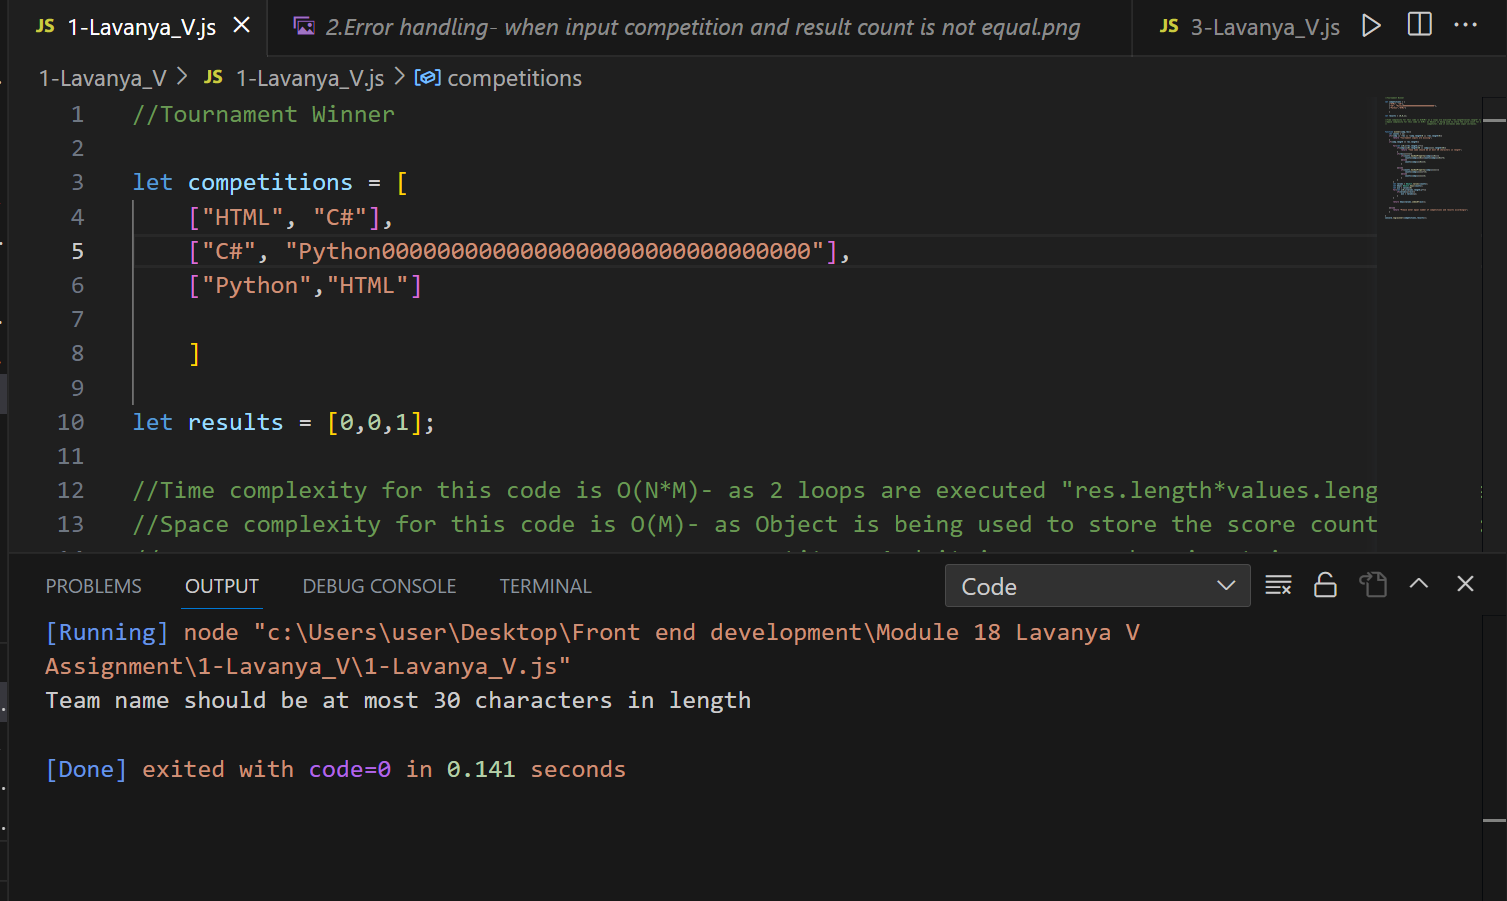
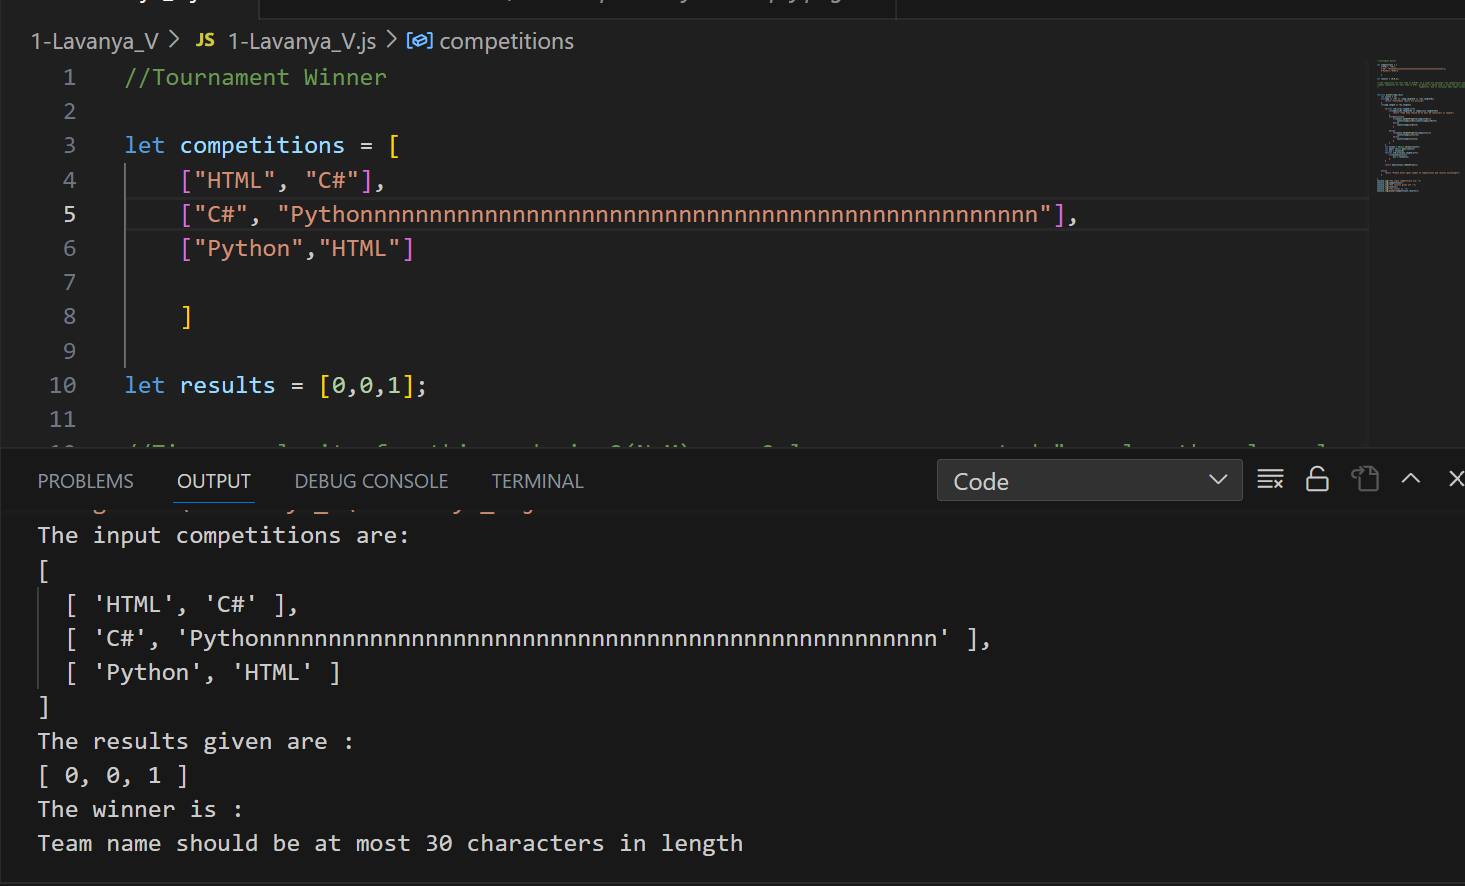
Add files via upload

diff --git a/Module 18 Lavanya V Assignment/3-Lavanya_V/3-Lavanya_V.js b/Module 18 Lavanya V Assignment/3-Lavanya_V/3-Lavanya_V.js
@@ -1,6 +1,4 @@
 //Move Element to the End
-
-
 //insertion sort algorithm is applied
 
 //time complexity for this code is O(n^2)-as 2 for loops are executed.("arr1.length" times)
@@ -8,30 +6,37 @@
 //                                         and array is mutated itself.
 
 let arr = [2, 1, 2, 2, 2, 3, 4, 2];
-let move =2;
+let move = 2;
 
 function moveNo(arr1,moveNum){
-    if(!arr1 || !moveNum){
+    if(!arr1 || typeof moveNum !== 'number'){
         return "Input is missing"; //edge case handling
     }else{
-        for(let i=arr1.length-2;i>=0;i--){
-            if(arr1[i]===moveNum){
-                for(let j=i+1;j<arr1.length;j++){
-                    if(arr1[j]!==moveNum){
-                        let currentVal=arr1[j];
-                        arr1[j]=arr1[j-1];
-                        arr1[j-1]=currentVal;
-                    }                  
-                }     
-            }    
+        if(arr1.includes(moveNum)){
+            for(let i=arr1.length-2;i>=0;i--){
+                if(arr1[i]===moveNum){
+                    for(let j=i+1;j<arr1.length;j++){
+                        if(arr1[j]!==moveNum){
+                            let currentVal=arr1[j];
+                            arr1[j]=arr1[j-1];
+                            arr1[j-1]=currentVal;
+                        }                  
+                    }     
+                }    
+            }
+            return arr1;
+
         }
-        return arr1;
+        else{
+            return "The give number to move is not present in the given array";
+        }
+        
     }   
 }
 console.log("The input array is :");
 console.log(arr);
 console.log(`The number need to be moved to end is : ${move}`);
-console.log("The final mutated array is : ");
+console.log("The result is : ");
 console.log(moveNo(arr,move));
 
 

diff --git a/Module 18 Lavanya V Assignment/2-Lavanya_V/2-Lavanya_V.js b/Module 18 Lavanya V Assignment/2-Lavanya_V/2-Lavanya_V.js
@@ -4,9 +4,8 @@
 //                          inner loop executes for "arr1.length" times
 //space complexity - O(1) - only auxillary spaces are used.
 
-//method 1
 
-let arr1 = [5, 1, 22, 25, 6, -1, 8, 10];
+let arr = [5, 1, 22, 25, 6, -1, 8, 10];
 let sequence = [1, 6, -1, 10];
 
 function SubSequence(arr1, seqArr) {
@@ -41,50 +40,9 @@ function SubSequence(arr1, seqArr) {
   }
 }
 console.log("The input array is :")
-console.log(arr1);
+console.log(arr);
 console.log("The subsequence array need to be checked is :");
 console.log(sequence);
-console.log(SubSequence(arr1, sequence));
-
-//-------------------------------------------------------------------------
-//line of code is bit less here but the second for loop(inner loop) will continue always till end
-//method 2
-
-// arr1 = [5, 1, 22, 25, 6, -1, 8, 10];
-// sequence = [1, 6, -1, 10];
-
-// //using linear search algorithm
-
-// function SubSequence(arr1, seqArr) {
-//   if (!arr1 || !seqArr) {
-//     //edge case handling
-//     return "Array is missing";
-//   } else if (arr1.length == 0 || seqArr.length == 0) {
-//     return "Array is empty";
-//   } else {
-//     let start = 0;
-//     let found = false;
-//     for (let i = 0; i < seqArr.length; i++) {
-//       if ((i > 0 && found) || i == 0) {
-//         found = false;
-
-//         for (let j = start; j < arr1.length; j++) {
-//           if (seqArr[i] === arr1[j]) {
-//             start = j + 1;
-//             found = true;
-//             break;
-//           }
-//         }
-//       }
-//     }
-//     if (!found) {
-//       return false;
-//     } else {
-//       return true;
-//     }
-//   }
-// }
-
-// console.log(SubSequence(arr1, sequence));
+console.log(`The result is : ${SubSequence(arr, sequence)}`);
 
 

diff --git a/Module 18 Lavanya V Assignment/1-Lavanya_V/1-Lavanya_V.js b/Module 18 Lavanya V Assignment/1-Lavanya_V/1-Lavanya_V.js
@@ -9,7 +9,7 @@ let competitions = [
 
 let results = [0,0,1];
 
-//Time complexity for this code is O(N*M)- as 2 loops are executed "res.length*values.length" times.
+//Time complexity for this code is O(N+M)- as 2 loops are executed "res.length+values.length" times.
 //Space complexity for this code is O(M)- as Object is being used to store the score count for each 
 //                                        competitor. And it increases when input increases.
 
@@ -58,6 +58,11 @@ function winner(comp,res){
     }
     
 }
+console.log("The input competitions are: ");
+console.log(competitions);
+console.log("The results given are :");
+console.log(results);
+console.log("The winner is :");
 console.log(winner(competitions,results));
     
  
